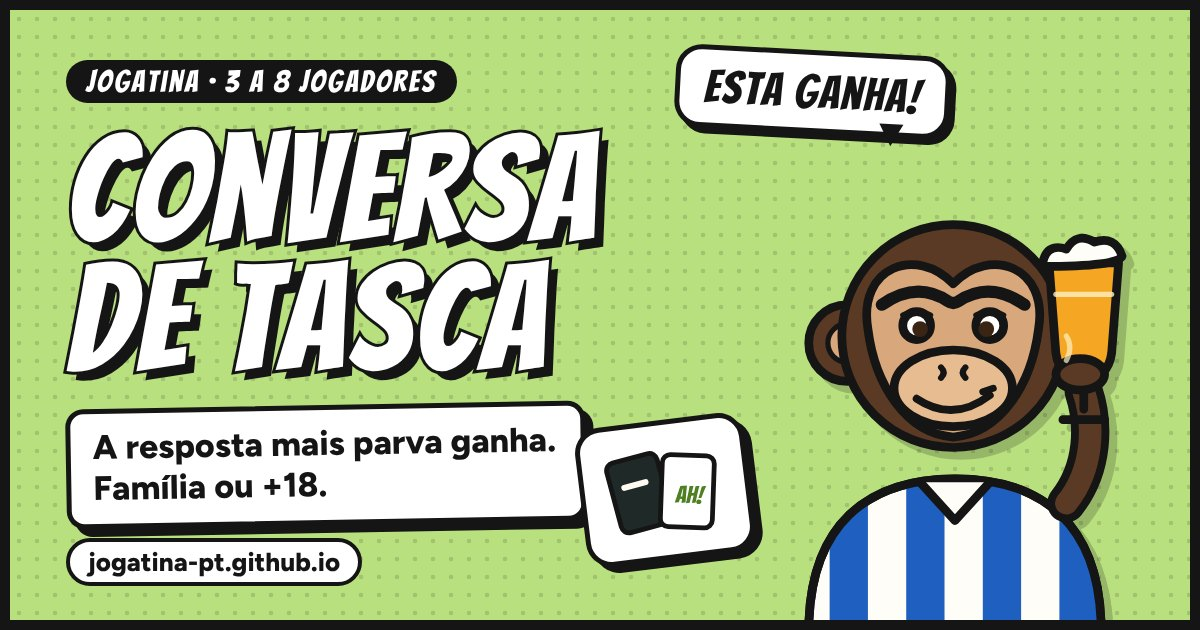
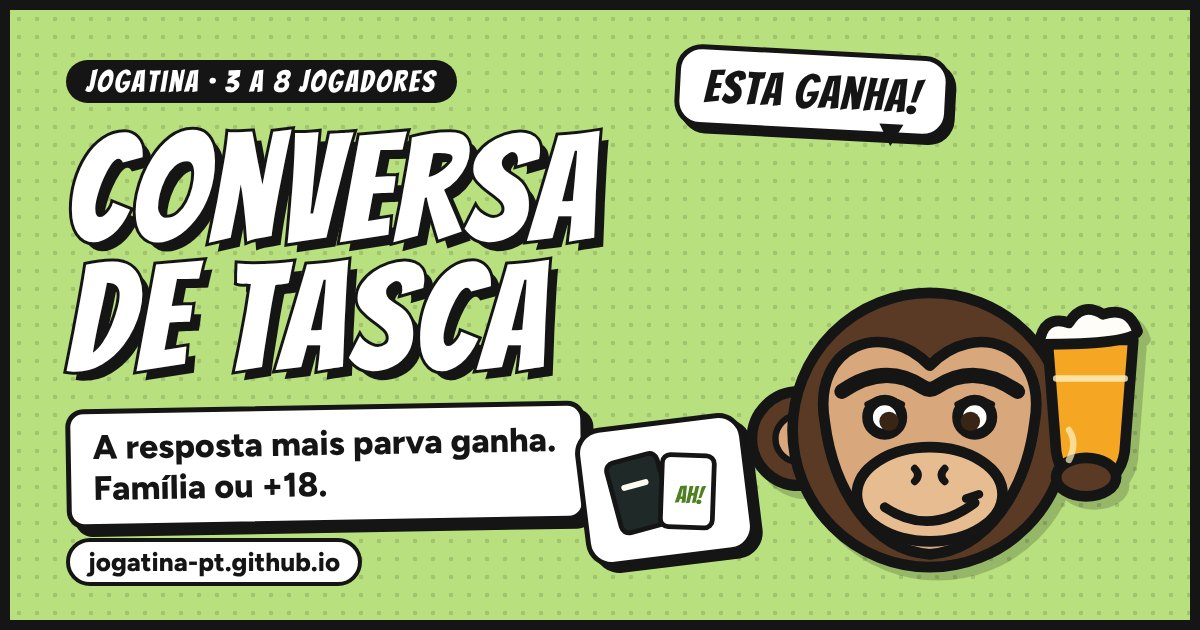
Macaco só com a cabeça e a imperial, do tamanho da girafa
Claude-Session: https://claude.ai/code/session_011LsVsj79WYP8BRWuYUNey5

Changed region(s): [[0.6167, 0.3317, 0.9558, 0.9952]]

diff --git a/voa/index.html b/voa/index.html
@@ -191,7 +191,7 @@ header.top{flex:none}
   <p class="foot">Toca no ecrã (ou carrega no espaço) para voar. Não batas nos pilares!</p>
 </div>
 <script>
-const SPR={"macaco": {"svg": "<svg xmlns=\"http://www.w3.org/2000/svg\"  viewBox=\"24 70 190 136\" role=\"img\" aria-label=\"Macaco de camisola às riscas a beber uma imperial\">\n<defs><clipPath id=\"vMc\"><path d=\"M28 270C28 208 62 182 112 182C162 182 196 208 196 270Z\"/></clipPath></defs>\n<g stroke=\"#151515\" stroke-width=\"5\" stroke-linejoin=\"round\" stroke-linecap=\"round\">\n<path d=\"M28 270C28 208 62 182 112 182C162 182 196 208 196 270Z\" fill=\"#fffdf8\"/>\n<g clip-path=\"url(#vMc)\" stroke-width=\"0\" fill=\"#1f5fc0\"><rect x=\"40\" y=\"170\" width=\"22\" height=\"110\"/><rect x=\"84\" y=\"170\" width=\"22\" height=\"110\"/><rect x=\"128\" y=\"170\" width=\"22\" height=\"110\"/><rect x=\"172\" y=\"170\" width=\"22\" height=\"110\"/></g>\n<path d=\"M28 270C28 208 62 182 112 182C162 182 196 208 196 270Z\" fill=\"none\"/>\n<path d=\"M92 184l20 22l20-22\" fill=\"#fffdf8\"/>\n<circle cx=\"50\" cy=\"104\" r=\"22\" fill=\"#5a3a24\"/><circle cx=\"50\" cy=\"104\" r=\"11\" fill=\"#d9a77c\" stroke-width=\"3\"/>\n<circle cx=\"172\" cy=\"104\" r=\"22\" fill=\"#5a3a24\"/><circle cx=\"172\" cy=\"104\" r=\"11\" fill=\"#d9a77c\" stroke-width=\"3\"/>\n<circle cx=\"111\" cy=\"100\" r=\"64\" fill=\"#5a3a24\"/>\n<path d=\"M111 70C90 48 56 60 62 96C66 128 84 156 111 158C138 156 156 128 160 96C166 60 132 48 111 70Z\" fill=\"#d9a77c\"/>\n<path d=\"M70 82q20-14 38-2q3 2 6 0q18-12 38 2\" fill=\"none\" stroke-width=\"7\"/>\n<circle cx=\"90\" cy=\"94\" r=\"8\" fill=\"#fff\"/><circle cx=\"132\" cy=\"94\" r=\"8\" fill=\"#fff\"/>\n<circle cx=\"92\" cy=\"96\" r=\"4.5\" fill=\"#3a2414\" stroke-width=\"0\"/><circle cx=\"130\" cy=\"96\" r=\"4.5\" fill=\"#3a2414\" stroke-width=\"0\"/>\n<path d=\"M82 88q8-4 16 0M124 88q8-4 16 0\" fill=\"none\" stroke-width=\"3\"/>\n<ellipse cx=\"111\" cy=\"130\" rx=\"34\" ry=\"22\" fill=\"#e8bc91\"/>\n<path d=\"M104 118q3 3 0 6M118 118q-3 3 0 6\" fill=\"none\" stroke-width=\"3.5\"/>\n<path d=\"M90 136q21 14 42-2\" fill=\"none\" stroke-width=\"4.5\"/><path d=\"M128 132l6-2\" stroke-width=\"4\"/>\n<path d=\"M176 196C192 176 192 150 186 132\" fill=\"none\" stroke-width=\"22\" stroke=\"#151515\"/><path d=\"M176 196C192 176 192 150 186 132\" fill=\"none\" stroke-width=\"13\" stroke=\"#5a3a24\"/>\n<path d=\"M166 58l40 0l-4 52q-2 14-16 16q-14-2-16-16z\" fill=\"#f5a623\"/>\n<path d=\"M170 76h32\" stroke=\"#fff3c4\" stroke-width=\"3\" opacity=\".8\"/>\n<path d=\"M162 60q2-14 14-10q6-10 16-4q12-4 16 8q-2 6-46 6z\" fill=\"#fffdf8\"/>\n<path d=\"M186 126v16M174 148h24\" stroke-width=\"5\"/>\n<ellipse cx=\"184\" cy=\"122\" rx=\"14\" ry=\"9\" fill=\"#5a3a24\"/>\n<path d=\"M176 100q4 6 0 14\" fill=\"none\" stroke=\"#fff3c4\" stroke-width=\"3\" opacity=\".7\"/>\n</g></svg>", "ar": 1.3970588235294117}, "girafa": {"svg": "<svg xmlns=\"http://www.w3.org/2000/svg\"  viewBox=\"20 4 165 140\" role=\"img\" aria-label=\"Girafa de óculos a ler um livro\">\n<g stroke=\"#151515\" stroke-width=\"5\" stroke-linejoin=\"round\" stroke-linecap=\"round\">\n<path d=\"M80 262 C84 200 88 158 92 118 L122 118 C126 158 132 200 138 262 Z\" fill=\"#f2b544\"/>\n<g stroke-width=\"3\" fill=\"#b8662b\"><path d=\"M97 150q9-7 15 1q-1 11-12 9q-7-3-3-10z\"/><path d=\"M114 182q9-5 13 3q-2 9-11 7q-6-4-2-10z\"/><path d=\"M93 200q8-5 13 2q-1 10-11 8q-6-3-2-10z\"/><path d=\"M110 228q9-5 14 3q-2 9-12 7q-6-4-2-10z\"/><path d=\"M98 128q6-4 10 1q-1 7-8 6q-4-3-2-7z\"/></g>\n<path d=\"M66 62q-34-14-40 2q16 18 44 10z\" fill=\"#f2b544\"/><path d=\"M58 62q-16-4-22 1\" fill=\"none\" stroke-width=\"3\"/>\n<path d=\"M142 62q34-14 40 2q-16 18-44 10z\" fill=\"#f2b544\"/><path d=\"M150 62q16-4 22 1\" fill=\"none\" stroke-width=\"3\"/>\n<path d=\"M88 46l-7-26\" stroke-width=\"8\"/><circle cx=\"80\" cy=\"17\" r=\"9\" fill=\"#7a3f1c\"/>\n<path d=\"M118 46l7-26\" stroke-width=\"8\"/><circle cx=\"126\" cy=\"17\" r=\"9\" fill=\"#7a3f1c\"/>\n<path d=\"M62 74C58 36 146 34 146 72C148 98 140 110 130 120L80 120C68 110 62 98 62 74Z\" fill=\"#f2b544\"/>\n<g stroke-width=\"3\" fill=\"#b8662b\"><path d=\"M70 92q6-5 10 1q-1 7-8 5q-4-2-2-6z\"/><path d=\"M128 50q7-4 10 2q-2 7-8 5q-4-3-2-7z\"/><path d=\"M80 48q6-3 9 2q-2 6-7 4q-4-2-2-6z\"/></g>\n<ellipse cx=\"104\" cy=\"116\" rx=\"35\" ry=\"23\" fill=\"#f7d9a3\"/>\n<circle cx=\"92\" cy=\"113\" r=\"3.5\" fill=\"#151515\" stroke-width=\"0\"/><circle cx=\"116\" cy=\"113\" r=\"3.5\" fill=\"#151515\" stroke-width=\"0\"/>\n<path d=\"M88 127q16 9 32 0\" fill=\"none\" stroke-width=\"4\"/>\n<circle cx=\"85\" cy=\"78\" r=\"16\" fill=\"#e8f4ff\" fill-opacity=\".55\"/><circle cx=\"123\" cy=\"78\" r=\"16\" fill=\"#e8f4ff\" fill-opacity=\".55\"/>\n<path d=\"M101 77q3-4 6 0\" fill=\"none\" stroke-width=\"4\"/><path d=\"M69 76l-8-3M139 76l8-3\" stroke-width=\"4\"/>\n<circle cx=\"87\" cy=\"82\" r=\"5.5\" fill=\"#151515\" stroke-width=\"0\"/><circle cx=\"121\" cy=\"82\" r=\"5.5\" fill=\"#151515\" stroke-width=\"0\"/>\n<circle cx=\"89\" cy=\"80\" r=\"1.6\" fill=\"#fff\" stroke-width=\"0\"/><circle cx=\"123\" cy=\"80\" r=\"1.6\" fill=\"#fff\" stroke-width=\"0\"/>\n<path d=\"M76 76q11-6 22 0M112 76q11-6 22 0\" fill=\"none\" stroke-width=\"4\"/>\n<path d=\"M77 74l-3-4M82 72l-1-4M126 72l1-4M131 74l3-4\" stroke-width=\"2.5\"/>\n<path d=\"M30 230l74-16l74 16l0 34l-74-14l-74 14z\" fill=\"#b8352c\"/>\n<path d=\"M36 226l68-12l0 34l-68 12z\" fill=\"#fffdf8\"/><path d=\"M172 226l-68-12l0 34l68 12z\" fill=\"#fffdf8\"/>\n<path d=\"M46 232l46-8M46 242l46-8M116 224l46 8M116 234l46 8\" stroke-width=\"2.5\" stroke=\"#8a8a8a\"/>\n</g></svg>", "ar": 1.1785714285714286}};
+const SPR={"macaco": {"svg": "<svg xmlns=\"http://www.w3.org/2000/svg\"  viewBox=\"22 30 192 140\" role=\"img\" aria-label=\"Macaco com uma imperial\">\n<g stroke=\"#151515\" stroke-width=\"5\" stroke-linejoin=\"round\" stroke-linecap=\"round\">\n<circle cx=\"50\" cy=\"104\" r=\"22\" fill=\"#5a3a24\"/><circle cx=\"50\" cy=\"104\" r=\"11\" fill=\"#d9a77c\" stroke-width=\"3\"/>\n<circle cx=\"172\" cy=\"104\" r=\"22\" fill=\"#5a3a24\"/><circle cx=\"172\" cy=\"104\" r=\"11\" fill=\"#d9a77c\" stroke-width=\"3\"/>\n<circle cx=\"111\" cy=\"100\" r=\"64\" fill=\"#5a3a24\"/>\n<path d=\"M111 70C90 48 56 60 62 96C66 128 84 156 111 158C138 156 156 128 160 96C166 60 132 48 111 70Z\" fill=\"#d9a77c\"/>\n<path d=\"M70 82q20-14 38-2q3 2 6 0q18-12 38 2\" fill=\"none\" stroke-width=\"7\"/>\n<circle cx=\"90\" cy=\"94\" r=\"8\" fill=\"#fff\"/><circle cx=\"132\" cy=\"94\" r=\"8\" fill=\"#fff\"/>\n<circle cx=\"92\" cy=\"96\" r=\"4.5\" fill=\"#3a2414\" stroke-width=\"0\"/><circle cx=\"130\" cy=\"96\" r=\"4.5\" fill=\"#3a2414\" stroke-width=\"0\"/>\n<path d=\"M82 88q8-4 16 0M124 88q8-4 16 0\" fill=\"none\" stroke-width=\"3\"/>\n<ellipse cx=\"111\" cy=\"130\" rx=\"34\" ry=\"22\" fill=\"#e8bc91\"/>\n<path d=\"M104 118q3 3 0 6M118 118q-3 3 0 6\" fill=\"none\" stroke-width=\"3.5\"/>\n<path d=\"M90 136q21 14 42-2\" fill=\"none\" stroke-width=\"4.5\"/><path d=\"M128 132l6-2\" stroke-width=\"4\"/>\n<path d=\"M166 58l40 0l-4 52q-2 14-16 16q-14-2-16-16z\" fill=\"#f5a623\"/>\n<path d=\"M170 76h32\" stroke=\"#fff3c4\" stroke-width=\"3\" opacity=\".8\"/>\n<path d=\"M162 60q2-14 14-10q6-10 16-4q12-4 16 8q-2 6-46 6z\" fill=\"#fffdf8\"/>\n<ellipse cx=\"184\" cy=\"122\" rx=\"14\" ry=\"9\" fill=\"#5a3a24\"/>\n<path d=\"M176 100q4 6 0 14\" fill=\"none\" stroke=\"#fff3c4\" stroke-width=\"3\" opacity=\".7\"/>\n</g></svg>", "ar": 1.3714285714285714}, "girafa": {"svg": "<svg xmlns=\"http://www.w3.org/2000/svg\"  viewBox=\"20 4 165 140\" role=\"img\" aria-label=\"Girafa de óculos a ler um livro\">\n<g stroke=\"#151515\" stroke-width=\"5\" stroke-linejoin=\"round\" stroke-linecap=\"round\">\n<path d=\"M80 262 C84 200 88 158 92 118 L122 118 C126 158 132 200 138 262 Z\" fill=\"#f2b544\"/>\n<g stroke-width=\"3\" fill=\"#b8662b\"><path d=\"M97 150q9-7 15 1q-1 11-12 9q-7-3-3-10z\"/><path d=\"M114 182q9-5 13 3q-2 9-11 7q-6-4-2-10z\"/><path d=\"M93 200q8-5 13 2q-1 10-11 8q-6-3-2-10z\"/><path d=\"M110 228q9-5 14 3q-2 9-12 7q-6-4-2-10z\"/><path d=\"M98 128q6-4 10 1q-1 7-8 6q-4-3-2-7z\"/></g>\n<path d=\"M66 62q-34-14-40 2q16 18 44 10z\" fill=\"#f2b544\"/><path d=\"M58 62q-16-4-22 1\" fill=\"none\" stroke-width=\"3\"/>\n<path d=\"M142 62q34-14 40 2q-16 18-44 10z\" fill=\"#f2b544\"/><path d=\"M150 62q16-4 22 1\" fill=\"none\" stroke-width=\"3\"/>\n<path d=\"M88 46l-7-26\" stroke-width=\"8\"/><circle cx=\"80\" cy=\"17\" r=\"9\" fill=\"#7a3f1c\"/>\n<path d=\"M118 46l7-26\" stroke-width=\"8\"/><circle cx=\"126\" cy=\"17\" r=\"9\" fill=\"#7a3f1c\"/>\n<path d=\"M62 74C58 36 146 34 146 72C148 98 140 110 130 120L80 120C68 110 62 98 62 74Z\" fill=\"#f2b544\"/>\n<g stroke-width=\"3\" fill=\"#b8662b\"><path d=\"M70 92q6-5 10 1q-1 7-8 5q-4-2-2-6z\"/><path d=\"M128 50q7-4 10 2q-2 7-8 5q-4-3-2-7z\"/><path d=\"M80 48q6-3 9 2q-2 6-7 4q-4-2-2-6z\"/></g>\n<ellipse cx=\"104\" cy=\"116\" rx=\"35\" ry=\"23\" fill=\"#f7d9a3\"/>\n<circle cx=\"92\" cy=\"113\" r=\"3.5\" fill=\"#151515\" stroke-width=\"0\"/><circle cx=\"116\" cy=\"113\" r=\"3.5\" fill=\"#151515\" stroke-width=\"0\"/>\n<path d=\"M88 127q16 9 32 0\" fill=\"none\" stroke-width=\"4\"/>\n<circle cx=\"85\" cy=\"78\" r=\"16\" fill=\"#e8f4ff\" fill-opacity=\".55\"/><circle cx=\"123\" cy=\"78\" r=\"16\" fill=\"#e8f4ff\" fill-opacity=\".55\"/>\n<path d=\"M101 77q3-4 6 0\" fill=\"none\" stroke-width=\"4\"/><path d=\"M69 76l-8-3M139 76l8-3\" stroke-width=\"4\"/>\n<circle cx=\"87\" cy=\"82\" r=\"5.5\" fill=\"#151515\" stroke-width=\"0\"/><circle cx=\"121\" cy=\"82\" r=\"5.5\" fill=\"#151515\" stroke-width=\"0\"/>\n<circle cx=\"89\" cy=\"80\" r=\"1.6\" fill=\"#fff\" stroke-width=\"0\"/><circle cx=\"123\" cy=\"80\" r=\"1.6\" fill=\"#fff\" stroke-width=\"0\"/>\n<path d=\"M76 76q11-6 22 0M112 76q11-6 22 0\" fill=\"none\" stroke-width=\"4\"/>\n<path d=\"M77 74l-3-4M82 72l-1-4M126 72l1-4M131 74l3-4\" stroke-width=\"2.5\"/>\n<path d=\"M30 230l74-16l74 16l0 34l-74-14l-74 14z\" fill=\"#b8352c\"/>\n<path d=\"M36 226l68-12l0 34l-68 12z\" fill=\"#fffdf8\"/><path d=\"M172 226l-68-12l0 34l68 12z\" fill=\"#fffdf8\"/>\n<path d=\"M46 232l46-8M46 242l46-8M116 224l46 8M116 234l46 8\" stroke-width=\"2.5\" stroke=\"#8a8a8a\"/>\n</g></svg>", "ar": 1.1785714285714286}};
 /* ================= VOA VOA =================
    Toca para voar e passa entre os pilares de azulejo. Física a passo fixo (igual em ecrãs de 60 ou 120 Hz).
    SPR (posto pelo build): {macaco:{svg,ar}, girafa:{svg,ar}} com as cabeças das personagens. */

diff --git a/index.html b/index.html
@@ -150,6 +150,7 @@ header.top{flex:none}
 .brand h1{font-size:clamp(34px,9vw,48px)}
 .hero{flex:none;display:flex;align-items:flex-end;justify-content:space-between;gap:6px;position:relative}
 .hero .mascot{height:clamp(96px,17dvh,190px);width:auto;flex:none}
+.hero .mascot.macaco{height:clamp(76px,13.5dvh,150px)}
 .hero .say{flex:1;display:flex;flex-direction:column;align-items:center;gap:6px;padding-bottom:10px;min-width:0}
 .hero .bubble-say{max-width:none;text-align:center;font-size:clamp(17px,4.6vw,26px);line-height:1.05}
 .hero .bubble-say.l::after{left:18px;right:auto}
@@ -181,7 +182,7 @@ header.top{flex:none}
 }
 @media (min-width:760px) and (min-height:600px){.game .pic{max-width:150px}}
 @media (max-height:700px){.game p{display:none}.game h3{margin-top:2px}}
-@media (max-height:700px){.hero .mascot{height:88px}.hero .tagline{display:none}.hero .bubble-say{font-size:16px}.game h3{font-size:20px}.game p{font-size:11px}.games{gap:8px}}
+@media (max-height:700px){.hero .mascot{height:88px}.hero .mascot.macaco{height:68px}.hero .tagline{display:none}.hero .bubble-say{font-size:16px}.game h3{font-size:20px}.game p{font-size:11px}.games{gap:8px}}
 @media (max-width:380px){header.top{flex-wrap:nowrap;gap:6px}.brand h1{font-size:29px}#installBtn{padding:4px 8px}}
 /* cartões em grelha: título em cima; etiqueta e desenho lado a lado em baixo, nunca um por cima do outro */
 .game{display:grid;grid-template-columns:minmax(0,1fr) auto;grid-template-rows:auto 1fr auto;column-gap:6px;row-gap:4px}
@@ -230,13 +231,8 @@ header.top{flex:none}
 <path d="M46 232l46-8M46 242l46-8M116 224l46 8M116 234l46 8" stroke-width="2.5" stroke="#8a8a8a"/>
 </g></svg>
     <div class="say"><div class="bubble-say">Joga com a malta, cada um no seu telemóvel!</div><p class="tagline">Grátis · sem conta · sem publicidade</p></div>
-    <svg class="mascot macaco" viewBox="0 0 230 270" role="img" aria-label="Macaco de camisola às riscas a beber uma imperial">
-<defs><clipPath id="mcShirt"><path d="M28 270C28 208 62 182 112 182C162 182 196 208 196 270Z"/></clipPath></defs>
+    <svg class="mascot macaco" viewBox="22 30 192 140" role="img" aria-label="Macaco com uma imperial">
 <g stroke="#151515" stroke-width="5" stroke-linejoin="round" stroke-linecap="round">
-<path d="M28 270C28 208 62 182 112 182C162 182 196 208 196 270Z" fill="#fffdf8"/>
-<g clip-path="url(#mcShirt)" stroke-width="0" fill="#1f5fc0"><rect x="40" y="170" width="22" height="110"/><rect x="84" y="170" width="22" height="110"/><rect x="128" y="170" width="22" height="110"/><rect x="172" y="170" width="22" height="110"/></g>
-<path d="M28 270C28 208 62 182 112 182C162 182 196 208 196 270Z" fill="none"/>
-<path d="M92 184l20 22l20-22" fill="#fffdf8"/>
 <circle cx="50" cy="104" r="22" fill="#5a3a24"/><circle cx="50" cy="104" r="11" fill="#d9a77c" stroke-width="3"/>
 <circle cx="172" cy="104" r="22" fill="#5a3a24"/><circle cx="172" cy="104" r="11" fill="#d9a77c" stroke-width="3"/>
 <circle cx="111" cy="100" r="64" fill="#5a3a24"/>
@@ -248,11 +244,9 @@ header.top{flex:none}
 <ellipse cx="111" cy="130" rx="34" ry="22" fill="#e8bc91"/>
 <path d="M104 118q3 3 0 6M118 118q-3 3 0 6" fill="none" stroke-width="3.5"/>
 <path d="M90 136q21 14 42-2" fill="none" stroke-width="4.5"/><path d="M128 132l6-2" stroke-width="4"/>
-<path d="M176 196C192 176 192 150 186 132" fill="none" stroke-width="22" stroke="#151515"/><path d="M176 196C192 176 192 150 186 132" fill="none" stroke-width="13" stroke="#5a3a24"/>
 <path d="M166 58l40 0l-4 52q-2 14-16 16q-14-2-16-16z" fill="#f5a623"/>
 <path d="M170 76h32" stroke="#fff3c4" stroke-width="3" opacity=".8"/>
 <path d="M162 60q2-14 14-10q6-10 16-4q12-4 16 8q-2 6-46 6z" fill="#fffdf8"/>
-<path d="M186 126v16M174 148h24" stroke-width="5"/>
 <ellipse cx="184" cy="122" rx="14" ry="9" fill="#5a3a24"/>
 <path d="M176 100q4 6 0 14" fill="none" stroke="#fff3c4" stroke-width="3" opacity=".7"/>
 </g></svg>
@@ -262,13 +256,8 @@ header.top{flex:none}
     <a class="game peta" href="peta/"><h3>Peta</h3><p>Inventa mentiras e engana os amigos.</p><span class="tag">2-8 · bluff</span><div class="pic" aria-hidden="true"><svg viewBox="0 0 64 48"><path d="M6 6h34a5 5 0 0 1 5 5v15a5 5 0 0 1-5 5H20l-8 7v-7H6a5 5 0 0 1-5-5V11a5 5 0 0 1 5-5z" fill="#fff" stroke="#151515" stroke-width="2.4" stroke-linejoin="round"/><text x="23" y="24" text-anchor="middle" font-family="Bangers, Impact, sans-serif" font-size="15" fill="#151515">?!</text><path d="M34 20h24a4 4 0 0 1 4 4v11a4 4 0 0 1-4 4h-3v6l-7-6H34a4 4 0 0 1-4-4V24a4 4 0 0 1 4-4z" fill="#d23a6e" stroke="#151515" stroke-width="2.4" stroke-linejoin="round"/><circle cx="40" cy="30" r="2" fill="#fff"/><circle cx="46" cy="30" r="2" fill="#fff"/><circle cx="52" cy="30" r="2" fill="#fff"/></svg></div></a>
     <a class="game tasca" href="tasca/"><h3>Conversa de Tasca</h3><p>A resposta mais parva ganha.</p><span class="tag">3-8 · família/+18</span><div class="pic" aria-hidden="true"><svg viewBox="0 0 64 48"><rect x="6" y="6" width="26" height="36" rx="4" fill="#1f2a28" stroke="#151515" stroke-width="2.4" transform="rotate(-8 19 24)"/><rect x="11" y="18" width="14" height="3" rx="1.5" fill="#fffaf1" transform="rotate(-8 19 24)"/><rect x="30" y="8" width="26" height="36" rx="4" fill="#fff" stroke="#151515" stroke-width="2.4" transform="rotate(9 43 26)"/><text x="44" y="32" text-anchor="middle" font-family="Bangers, Impact, sans-serif" font-size="12" fill="#4f7f23" transform="rotate(9 43 26)">AH!</text></svg></div></a>
     <a class="game branco" href="branco/"><h3>Senhor Branco</h3><p>Descobre o impostor pelas pistas.</p><span class="tag">3-10 · dedução</span><div class="pic" aria-hidden="true"><svg viewBox="0 0 64 48"><rect x="8" y="10" width="22" height="30" rx="4" fill="#2f5fb3" stroke="#151515" stroke-width="2.4" transform="rotate(-10 19 25)"/><rect x="21" y="5" width="22" height="30" rx="4" fill="#2f5fb3" stroke="#151515" stroke-width="2.4"/><rect x="34" y="10" width="22" height="30" rx="4" fill="#fff" stroke="#151515" stroke-width="2.4" transform="rotate(10 45 25)"/><text x="45" y="32" text-anchor="middle" font-family="Bangers, Impact, sans-serif" font-size="18" fill="#2f5fb3" transform="rotate(10 45 25)">?</text></svg></div></a>
-    <a class="game maisuma" href="maisuma/"><h3>Mais Uma!</h3><p>Eu nunca, verdades e desafios.</p><span class="tag">2-12 · +18</span><div class="pic" aria-hidden="true"><svg class="macaco-mini" viewBox="0 0 230 270" role="img" aria-label="Macaco de camisola às riscas a beber uma imperial">
-<defs><clipPath id="mcShirt2"><path d="M28 270C28 208 62 182 112 182C162 182 196 208 196 270Z"/></clipPath></defs>
+    <a class="game maisuma" href="maisuma/"><h3>Mais Uma!</h3><p>Eu nunca, verdades e desafios.</p><span class="tag">2-12 · +18</span><div class="pic" aria-hidden="true"><svg class="macaco-mini" viewBox="22 30 192 140" role="img" aria-label="Macaco com uma imperial">
 <g stroke="#151515" stroke-width="5" stroke-linejoin="round" stroke-linecap="round">
-<path d="M28 270C28 208 62 182 112 182C162 182 196 208 196 270Z" fill="#fffdf8"/>
-<g clip-path="url(#mcShirt2)" stroke-width="0" fill="#1f5fc0"><rect x="40" y="170" width="22" height="110"/><rect x="84" y="170" width="22" height="110"/><rect x="128" y="170" width="22" height="110"/><rect x="172" y="170" width="22" height="110"/></g>
-<path d="M28 270C28 208 62 182 112 182C162 182 196 208 196 270Z" fill="none"/>
-<path d="M92 184l20 22l20-22" fill="#fffdf8"/>
 <circle cx="50" cy="104" r="22" fill="#5a3a24"/><circle cx="50" cy="104" r="11" fill="#d9a77c" stroke-width="3"/>
 <circle cx="172" cy="104" r="22" fill="#5a3a24"/><circle cx="172" cy="104" r="11" fill="#d9a77c" stroke-width="3"/>
 <circle cx="111" cy="100" r="64" fill="#5a3a24"/>
@@ -280,11 +269,9 @@ header.top{flex:none}
 <ellipse cx="111" cy="130" rx="34" ry="22" fill="#e8bc91"/>
 <path d="M104 118q3 3 0 6M118 118q-3 3 0 6" fill="none" stroke-width="3.5"/>
 <path d="M90 136q21 14 42-2" fill="none" stroke-width="4.5"/><path d="M128 132l6-2" stroke-width="4"/>
-<path d="M176 196C192 176 192 150 186 132" fill="none" stroke-width="22" stroke="#151515"/><path d="M176 196C192 176 192 150 186 132" fill="none" stroke-width="13" stroke="#5a3a24"/>
 <path d="M166 58l40 0l-4 52q-2 14-16 16q-14-2-16-16z" fill="#f5a623"/>
 <path d="M170 76h32" stroke="#fff3c4" stroke-width="3" opacity=".8"/>
 <path d="M162 60q2-14 14-10q6-10 16-4q12-4 16 8q-2 6-46 6z" fill="#fffdf8"/>
-<path d="M186 126v16M174 148h24" stroke-width="5"/>
 <ellipse cx="184" cy="122" rx="14" ry="9" fill="#5a3a24"/>
 <path d="M176 100q4 6 0 14" fill="none" stroke="#fff3c4" stroke-width="3" opacity=".7"/>
 </g></svg></div></a>

diff --git a/tasca/index.html b/tasca/index.html
@@ -238,13 +238,8 @@ input{border:3px solid var(--stroke);box-shadow:3px 3px 0 var(--stroke)}
   </header>
 
   <section id="setup" class="setup">
-    <div class="hero-row"><h2>Quem tem a resposta<span>mais parva?</span></h2><svg class="mascot macaco" viewBox="0 0 230 270" role="img" aria-label="Macaco de camisola às riscas a beber uma imperial">
-<defs><clipPath id="mcShirt"><path d="M28 270C28 208 62 182 112 182C162 182 196 208 196 270Z"/></clipPath></defs>
+    <div class="hero-row"><h2>Quem tem a resposta<span>mais parva?</span></h2><svg class="mascot macaco" viewBox="22 30 192 140" role="img" aria-label="Macaco com uma imperial">
 <g stroke="#151515" stroke-width="5" stroke-linejoin="round" stroke-linecap="round">
-<path d="M28 270C28 208 62 182 112 182C162 182 196 208 196 270Z" fill="#fffdf8"/>
-<g clip-path="url(#mcShirt)" stroke-width="0" fill="#1f5fc0"><rect x="40" y="170" width="22" height="110"/><rect x="84" y="170" width="22" height="110"/><rect x="128" y="170" width="22" height="110"/><rect x="172" y="170" width="22" height="110"/></g>
-<path d="M28 270C28 208 62 182 112 182C162 182 196 208 196 270Z" fill="none"/>
-<path d="M92 184l20 22l20-22" fill="#fffdf8"/>
 <circle cx="50" cy="104" r="22" fill="#5a3a24"/><circle cx="50" cy="104" r="11" fill="#d9a77c" stroke-width="3"/>
 <circle cx="172" cy="104" r="22" fill="#5a3a24"/><circle cx="172" cy="104" r="11" fill="#d9a77c" stroke-width="3"/>
 <circle cx="111" cy="100" r="64" fill="#5a3a24"/>
@@ -256,11 +251,9 @@ input{border:3px solid var(--stroke);box-shadow:3px 3px 0 var(--stroke)}
 <ellipse cx="111" cy="130" rx="34" ry="22" fill="#e8bc91"/>
 <path d="M104 118q3 3 0 6M118 118q-3 3 0 6" fill="none" stroke-width="3.5"/>
 <path d="M90 136q21 14 42-2" fill="none" stroke-width="4.5"/><path d="M128 132l6-2" stroke-width="4"/>
-<path d="M176 196C192 176 192 150 186 132" fill="none" stroke-width="22" stroke="#151515"/><path d="M176 196C192 176 192 150 186 132" fill="none" stroke-width="13" stroke="#5a3a24"/>
 <path d="M166 58l40 0l-4 52q-2 14-16 16q-14-2-16-16z" fill="#f5a623"/>
 <path d="M170 76h32" stroke="#fff3c4" stroke-width="3" opacity=".8"/>
 <path d="M162 60q2-14 14-10q6-10 16-4q12-4 16 8q-2 6-46 6z" fill="#fffdf8"/>
-<path d="M186 126v16M174 148h24" stroke-width="5"/>
 <ellipse cx="184" cy="122" rx="14" ry="9" fill="#5a3a24"/>
 <path d="M176 100q4 6 0 14" fill="none" stroke="#fff3c4" stroke-width="3" opacity=".7"/>
 </g></svg></div>

diff --git a/testa/index.html b/testa/index.html
@@ -190,13 +190,8 @@ input{border:3px solid var(--stroke);box-shadow:3px 3px 0 var(--stroke)}
     </div>
   </header>
   <section id="setup" class="setup">
-    <div class="hero-row"><h2>Adivinha<span>na testa!</span></h2><svg class="mascot macaco" viewBox="0 0 230 270" role="img" aria-label="Macaco de camisola às riscas a beber uma imperial">
-<defs><clipPath id="mcShirt"><path d="M28 270C28 208 62 182 112 182C162 182 196 208 196 270Z"/></clipPath></defs>
+    <div class="hero-row"><h2>Adivinha<span>na testa!</span></h2><svg class="mascot macaco" viewBox="22 30 192 140" role="img" aria-label="Macaco com uma imperial">
 <g stroke="#151515" stroke-width="5" stroke-linejoin="round" stroke-linecap="round">
-<path d="M28 270C28 208 62 182 112 182C162 182 196 208 196 270Z" fill="#fffdf8"/>
-<g clip-path="url(#mcShirt)" stroke-width="0" fill="#1f5fc0"><rect x="40" y="170" width="22" height="110"/><rect x="84" y="170" width="22" height="110"/><rect x="128" y="170" width="22" height="110"/><rect x="172" y="170" width="22" height="110"/></g>
-<path d="M28 270C28 208 62 182 112 182C162 182 196 208 196 270Z" fill="none"/>
-<path d="M92 184l20 22l20-22" fill="#fffdf8"/>
 <circle cx="50" cy="104" r="22" fill="#5a3a24"/><circle cx="50" cy="104" r="11" fill="#d9a77c" stroke-width="3"/>
 <circle cx="172" cy="104" r="22" fill="#5a3a24"/><circle cx="172" cy="104" r="11" fill="#d9a77c" stroke-width="3"/>
 <circle cx="111" cy="100" r="64" fill="#5a3a24"/>
@@ -208,11 +203,9 @@ input{border:3px solid var(--stroke);box-shadow:3px 3px 0 var(--stroke)}
 <ellipse cx="111" cy="130" rx="34" ry="22" fill="#e8bc91"/>
 <path d="M104 118q3 3 0 6M118 118q-3 3 0 6" fill="none" stroke-width="3.5"/>
 <path d="M90 136q21 14 42-2" fill="none" stroke-width="4.5"/><path d="M128 132l6-2" stroke-width="4"/>
-<path d="M176 196C192 176 192 150 186 132" fill="none" stroke-width="22" stroke="#151515"/><path d="M176 196C192 176 192 150 186 132" fill="none" stroke-width="13" stroke="#5a3a24"/>
 <path d="M166 58l40 0l-4 52q-2 14-16 16q-14-2-16-16z" fill="#f5a623"/>
 <path d="M170 76h32" stroke="#fff3c4" stroke-width="3" opacity=".8"/>
 <path d="M162 60q2-14 14-10q6-10 16-4q12-4 16 8q-2 6-46 6z" fill="#fffdf8"/>
-<path d="M186 126v16M174 148h24" stroke-width="5"/>
 <ellipse cx="184" cy="122" rx="14" ry="9" fill="#5a3a24"/>
 <path d="M176 100q4 6 0 14" fill="none" stroke="#fff3c4" stroke-width="3" opacity=".7"/>
 </g></svg></div>

diff --git a/maisuma/index.html b/maisuma/index.html
@@ -239,13 +239,8 @@ input{border:3px solid var(--stroke);box-shadow:3px 3px 0 var(--stroke)}
   </header>
 
   <section id="setup" class="setup">
-    <div class="hero-row"><h2>Só mais<span>uma rodada.</span></h2><svg class="mascot macaco" viewBox="0 0 230 270" role="img" aria-label="Macaco de camisola às riscas a beber uma imperial">
-<defs><clipPath id="mcShirt"><path d="M28 270C28 208 62 182 112 182C162 182 196 208 196 270Z"/></clipPath></defs>
+    <div class="hero-row"><h2>Só mais<span>uma rodada.</span></h2><svg class="mascot macaco" viewBox="22 30 192 140" role="img" aria-label="Macaco com uma imperial">
 <g stroke="#151515" stroke-width="5" stroke-linejoin="round" stroke-linecap="round">
-<path d="M28 270C28 208 62 182 112 182C162 182 196 208 196 270Z" fill="#fffdf8"/>
-<g clip-path="url(#mcShirt)" stroke-width="0" fill="#1f5fc0"><rect x="40" y="170" width="22" height="110"/><rect x="84" y="170" width="22" height="110"/><rect x="128" y="170" width="22" height="110"/><rect x="172" y="170" width="22" height="110"/></g>
-<path d="M28 270C28 208 62 182 112 182C162 182 196 208 196 270Z" fill="none"/>
-<path d="M92 184l20 22l20-22" fill="#fffdf8"/>
 <circle cx="50" cy="104" r="22" fill="#5a3a24"/><circle cx="50" cy="104" r="11" fill="#d9a77c" stroke-width="3"/>
 <circle cx="172" cy="104" r="22" fill="#5a3a24"/><circle cx="172" cy="104" r="11" fill="#d9a77c" stroke-width="3"/>
 <circle cx="111" cy="100" r="64" fill="#5a3a24"/>
@@ -257,11 +252,9 @@ input{border:3px solid var(--stroke);box-shadow:3px 3px 0 var(--stroke)}
 <ellipse cx="111" cy="130" rx="34" ry="22" fill="#e8bc91"/>
 <path d="M104 118q3 3 0 6M118 118q-3 3 0 6" fill="none" stroke-width="3.5"/>
 <path d="M90 136q21 14 42-2" fill="none" stroke-width="4.5"/><path d="M128 132l6-2" stroke-width="4"/>
-<path d="M176 196C192 176 192 150 186 132" fill="none" stroke-width="22" stroke="#151515"/><path d="M176 196C192 176 192 150 186 132" fill="none" stroke-width="13" stroke="#5a3a24"/>
 <path d="M166 58l40 0l-4 52q-2 14-16 16q-14-2-16-16z" fill="#f5a623"/>
 <path d="M170 76h32" stroke="#fff3c4" stroke-width="3" opacity=".8"/>
 <path d="M162 60q2-14 14-10q6-10 16-4q12-4 16 8q-2 6-46 6z" fill="#fffdf8"/>
-<path d="M186 126v16M174 148h24" stroke-width="5"/>
 <ellipse cx="184" cy="122" rx="14" ry="9" fill="#5a3a24"/>
 <path d="M176 100q4 6 0 14" fill="none" stroke="#fff3c4" stroke-width="3" opacity=".7"/>
 </g></svg></div>

diff --git a/quemsou/index.html b/quemsou/index.html
@@ -296,13 +296,8 @@ input{border:3px solid var(--stroke);box-shadow:3px 3px 0 var(--stroke)}
   </header>
 
   <section id="setup" class="setup">
-    <div class="hero-row"><h2>Quem<span>sou eu?</span></h2><svg class="mascot macaco" viewBox="0 0 230 270" role="img" aria-label="Macaco de camisola às riscas a beber uma imperial">
-<defs><clipPath id="mcShirt"><path d="M28 270C28 208 62 182 112 182C162 182 196 208 196 270Z"/></clipPath></defs>
+    <div class="hero-row"><h2>Quem<span>sou eu?</span></h2><svg class="mascot macaco" viewBox="22 30 192 140" role="img" aria-label="Macaco com uma imperial">
 <g stroke="#151515" stroke-width="5" stroke-linejoin="round" stroke-linecap="round">
-<path d="M28 270C28 208 62 182 112 182C162 182 196 208 196 270Z" fill="#fffdf8"/>
-<g clip-path="url(#mcShirt)" stroke-width="0" fill="#1f5fc0"><rect x="40" y="170" width="22" height="110"/><rect x="84" y="170" width="22" height="110"/><rect x="128" y="170" width="22" height="110"/><rect x="172" y="170" width="22" height="110"/></g>
-<path d="M28 270C28 208 62 182 112 182C162 182 196 208 196 270Z" fill="none"/>
-<path d="M92 184l20 22l20-22" fill="#fffdf8"/>
 <circle cx="50" cy="104" r="22" fill="#5a3a24"/><circle cx="50" cy="104" r="11" fill="#d9a77c" stroke-width="3"/>
 <circle cx="172" cy="104" r="22" fill="#5a3a24"/><circle cx="172" cy="104" r="11" fill="#d9a77c" stroke-width="3"/>
 <circle cx="111" cy="100" r="64" fill="#5a3a24"/>
@@ -314,11 +309,9 @@ input{border:3px solid var(--stroke);box-shadow:3px 3px 0 var(--stroke)}
 <ellipse cx="111" cy="130" rx="34" ry="22" fill="#e8bc91"/>
 <path d="M104 118q3 3 0 6M118 118q-3 3 0 6" fill="none" stroke-width="3.5"/>
 <path d="M90 136q21 14 42-2" fill="none" stroke-width="4.5"/><path d="M128 132l6-2" stroke-width="4"/>
-<path d="M176 196C192 176 192 150 186 132" fill="none" stroke-width="22" stroke="#151515"/><path d="M176 196C192 176 192 150 186 132" fill="none" stroke-width="13" stroke="#5a3a24"/>
 <path d="M166 58l40 0l-4 52q-2 14-16 16q-14-2-16-16z" fill="#f5a623"/>
 <path d="M170 76h32" stroke="#fff3c4" stroke-width="3" opacity=".8"/>
 <path d="M162 60q2-14 14-10q6-10 16-4q12-4 16 8q-2 6-46 6z" fill="#fffdf8"/>
-<path d="M186 126v16M174 148h24" stroke-width="5"/>
 <ellipse cx="184" cy="122" rx="14" ry="9" fill="#5a3a24"/>
 <path d="M176 100q4 6 0 14" fill="none" stroke="#fff3c4" stroke-width="3" opacity=".7"/>
 </g></svg></div>
